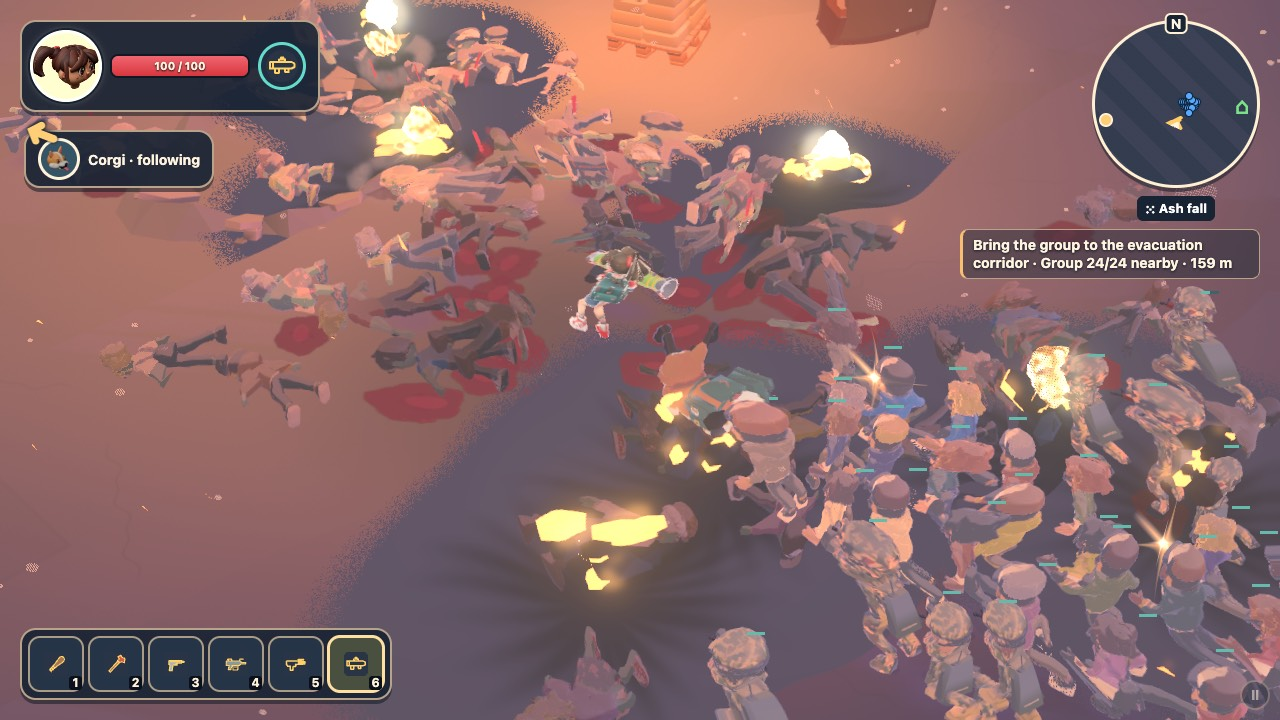
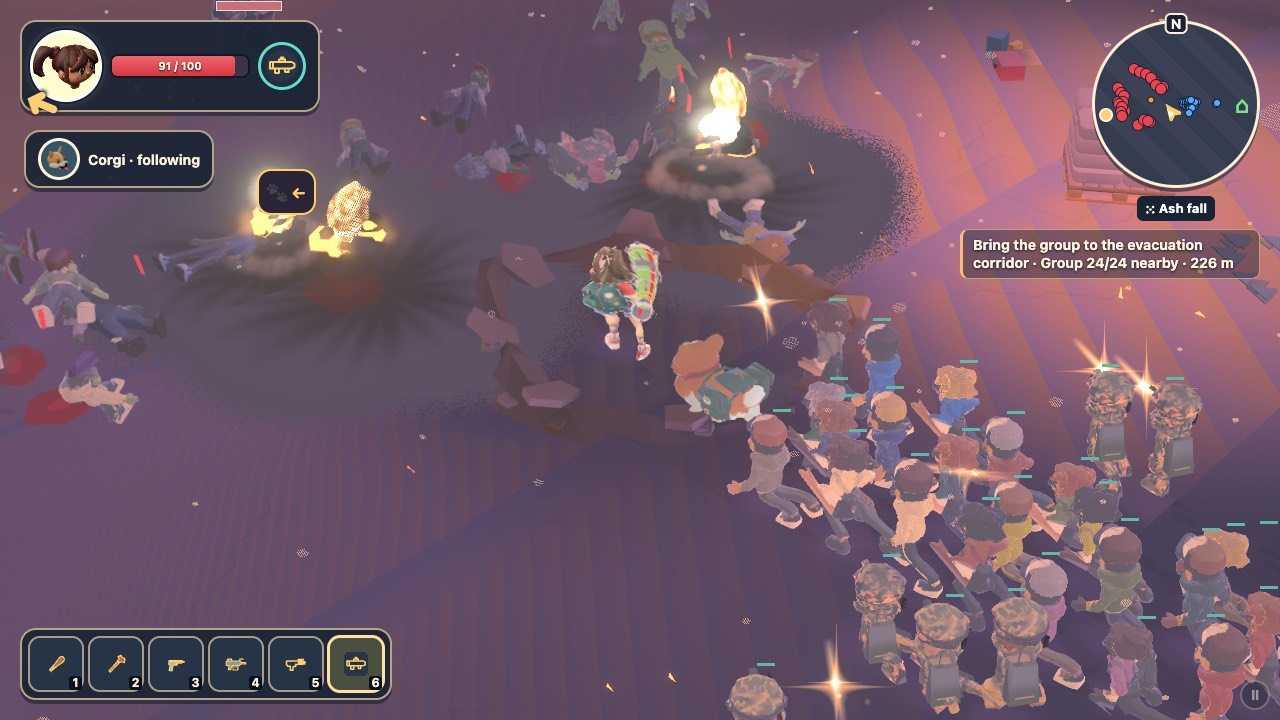
Refresh HIGH L7 junction capture

diff --git a/docs/reports/s192-l7harder/README.md b/docs/reports/s192-l7harder/README.md
@@ -75,3 +75,5 @@ LOW final-junction staging now releases eligible living opening stragglers only 
 Four additional mortal rifle guards cover the HIGH corridor using shared soldier stats. Fresh skilled native runs complete both tiers with 24/24 survivors, zero courier deaths, all 560/280 regular arrivals and five Alphas, with empty queues. The distinct-attacker windup probe records at least three directions at each sampled street on both tiers. The complete threat audit returns 0 flags; typecheck and lint pass. The prior HIGH 4/24 result is superseded. Final remote acceptance, remote units, real-device timing and an updated visual capture remain to be checked on this revision.
 
 Final-revision remote verification: `npm test` passed (105 passed, 1 skipped, 27 files). Separate HIGH and LOW `qa:accept --skip-browser` runs each completed the skilled route, eight fixture clauses and three checkpoint clauses; each exited 1 with L7-01 physical launcher approach / first rocket frame gate failing and 11 L7 rows incomplete. Pulled `fix51-verify` artifacts were restored after inspection. Real-device timing and updated visual review are still pending.
+
+A current HIGH zoom-1 headless WebGL2 capture at tick 1122, during the first later street fight, replaces the earlier image. Inspection shows infected approaching from the upper and left sides while the column fires, with multiple bodies and blast effects; the still alone does not establish three timed directions. The L7-01 physical pickup fixture referenced by the remote report is historical: both saved tier receipts report passing mechanics and frame gates but carry source hash `6bd47c…`, which predates this build. A current physical pickup/frame run is required to resolve the reported failure.
